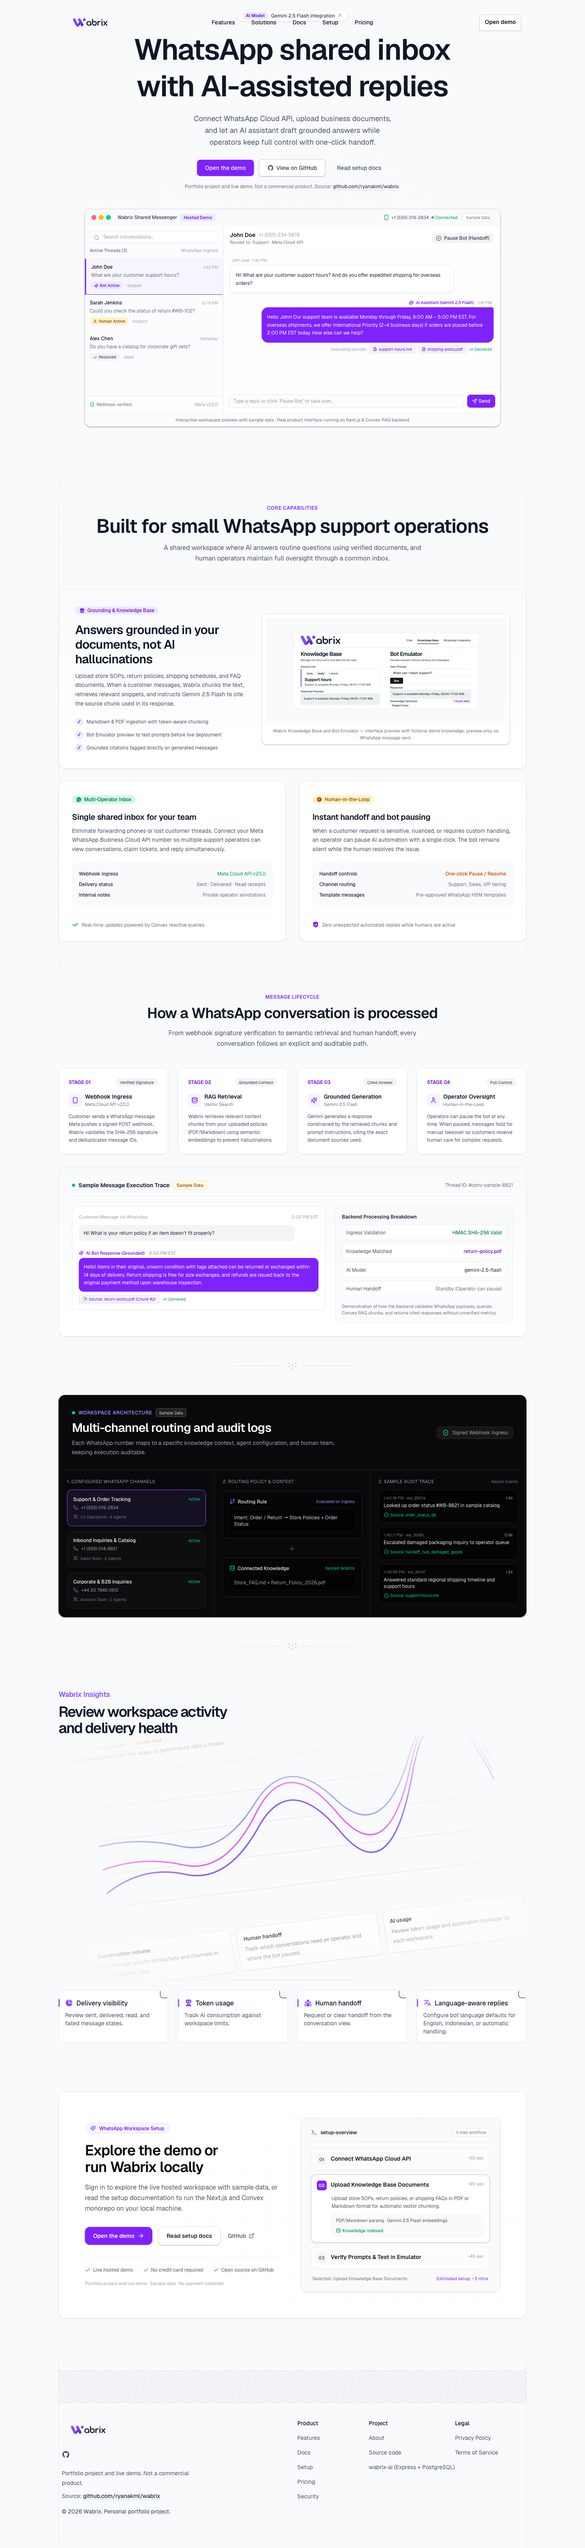
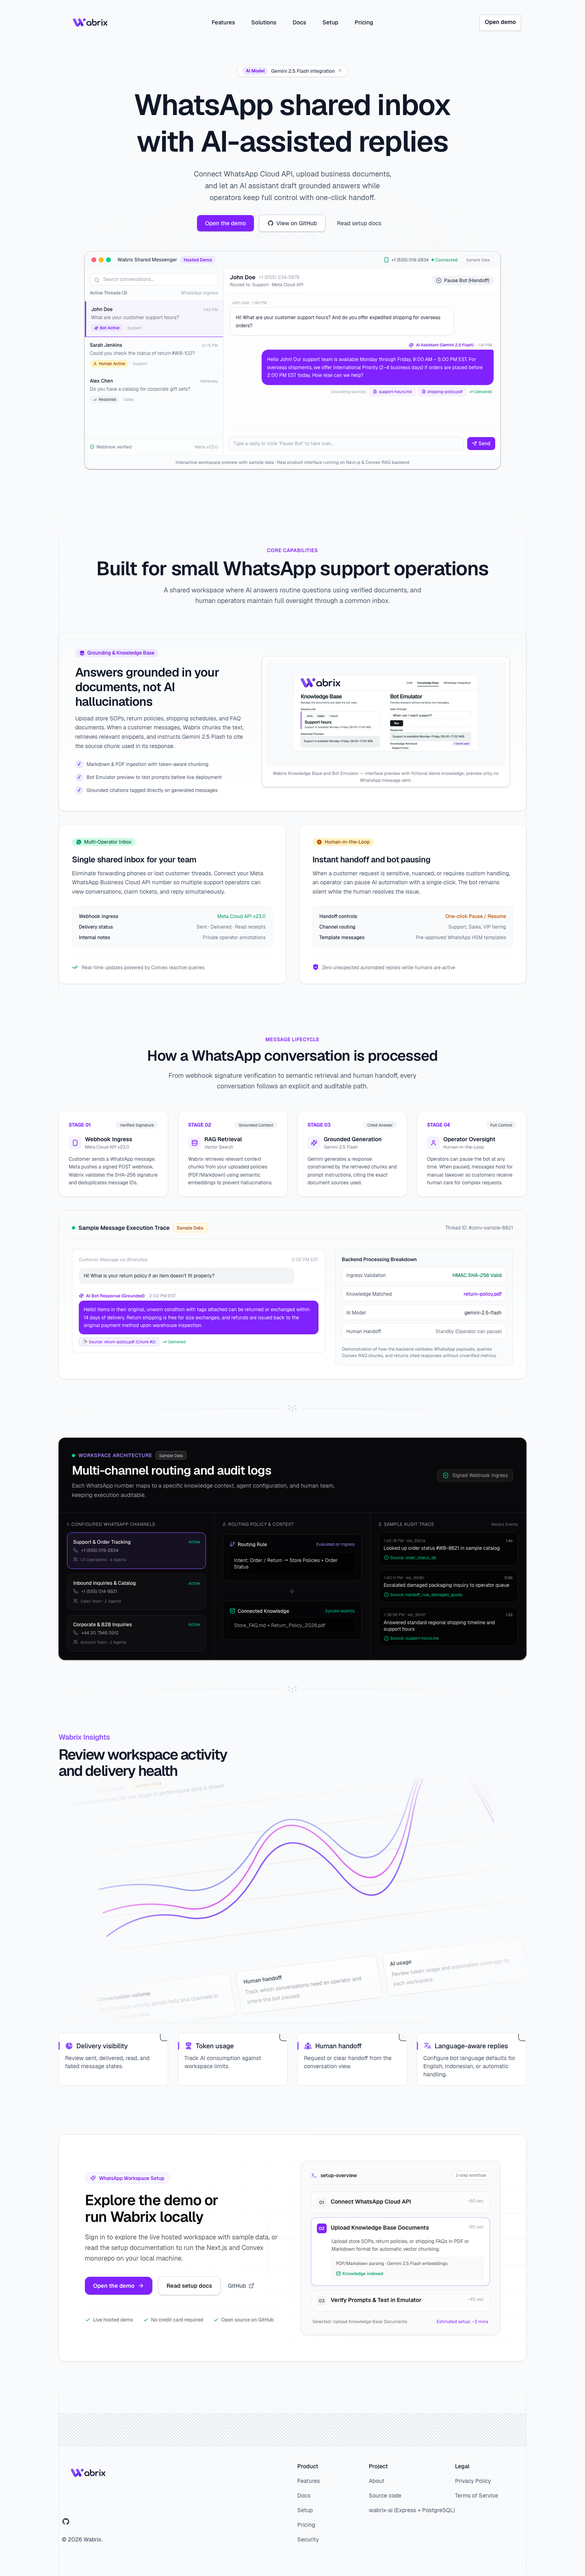
fix(web): resolve navbar overlap, remove repetitive disclaimers, and standardize operator labels

diff --git a/apps/web-2/src/components/landing-page/ui/Hero.tsx b/apps/web-2/src/components/landing-page/ui/Hero.tsx
@@ -7,7 +7,7 @@ import { HeroInboxShowcase } from "./HeroInboxShowcase"
 
 export function Hero() {
   return (
-    <section aria-label="hero" className="relative pt-6 pb-16 sm:pb-20">
+    <section aria-label="hero" className="relative pt-32 pb-16 sm:pt-40 sm:pb-20">
       <FadeContainer className="relative flex flex-col items-center justify-center">
         {/* Model Badge */}
         <FadeDiv className="mx-auto">
@@ -65,21 +65,6 @@ export function Hero() {
           </Link>
         </FadeDiv>
 
-        {/* Required Portfolio Disclosure */}
-        <FadeDiv className="mt-4">
-          <p className="max-w-xl text-center text-xs text-balance text-gray-500">
-            Portfolio project and live demo. Not a commercial product. Source:{" "}
-            <a
-              href={siteConfig.repositories.current}
-              target="_blank"
-              rel="noopener noreferrer"
-              className="font-medium text-gray-700 underline decoration-gray-300 underline-offset-4 transition-colors hover:text-gray-900"
-            >
-              github.com/ryanakml/wabrix
-            </a>
-            .
-          </p>
-        </FadeDiv>
 
         {/* Real Product Showcase (WhatsApp Messenger) */}
         <div className="mt-12 w-full px-4 sm:px-6">

diff --git a/apps/web-2/src/components/landing-page/ui/Footer.tsx b/apps/web-2/src/components/landing-page/ui/Footer.tsx
@@ -141,22 +141,8 @@ const Footer = () => {
                 <RiGithubFill className="size-5" />
               </a>
             </div>
-            <div className="mt-4 ml-2 max-w-xs text-sm leading-6 text-gray-600">
-              <p>Portfolio project and live demo. Not a commercial product.</p>
-              <p className="mt-2">
-                Source:{" "}
-                <a
-                  href={siteConfig.repositories.current}
-                  target="_blank"
-                  rel="noopener noreferrer"
-                  className="font-medium text-gray-800 underline decoration-gray-300 underline-offset-4 transition-colors hover:text-gray-900"
-                >
-                  github.com/ryanakml/wabrix
-                </a>
-              </p>
-            </div>
             <div className="mt-4 ml-2 text-sm text-gray-700">
-              &copy; 2026 Wabrix. Personal portfolio project.
+              &copy; 2026 Wabrix.
             </div>
           </div>
         </div>

diff --git a/apps/web-2/src/components/landing-page/ui/HeroInboxShowcase.tsx b/apps/web-2/src/components/landing-page/ui/HeroInboxShowcase.tsx
@@ -78,7 +78,7 @@ const SAMPLE_CONVERSATIONS: ConversationItem[] = [
       },
       {
         sender: "operator",
-        text: "Hi Sarah, Ryan here from Support. I just checked with our warehouse team—your item cleared inspection, and your refund has been processed back to your card. You should receive confirmation shortly.",
+        text: "Hi Sarah, Support Team here. I just checked with our warehouse team—your item cleared inspection, and your refund has been processed back to your card. You should receive confirmation shortly.",
         time: "12:15 PM",
         note: "Operator manual takeover · Bot paused",
       },

diff --git a/apps/web-2/src/app/(public)/docs/layout.tsx b/apps/web-2/src/app/(public)/docs/layout.tsx
@@ -14,9 +14,6 @@ export default function DocsLayout({ children }: { children: React.ReactNode }) 
             </div>
           </aside>
           <div>
-            <p className='mb-6 rounded-xl border border-amber-200 bg-amber-50 px-4 py-3 text-sm leading-6 text-amber-900'>
-              Portfolio documentation for a live demo. This is not a commercial support offering.
-            </p>
             {children}
           </div>
         </div>

diff --git a/apps/web-2/src/components/landing-page/ui/CtaSection.tsx b/apps/web-2/src/components/landing-page/ui/CtaSection.tsx
@@ -134,9 +134,7 @@ export function CtaSection() {
               ))}
             </div>
 
-            <p className="mt-4 text-[11px] leading-relaxed text-zinc-400">
-              Portfolio project and live demo · Sample data · No payment collected.
-            </p>
+
           </div>
 
           <div className="lg:col-span-6">
